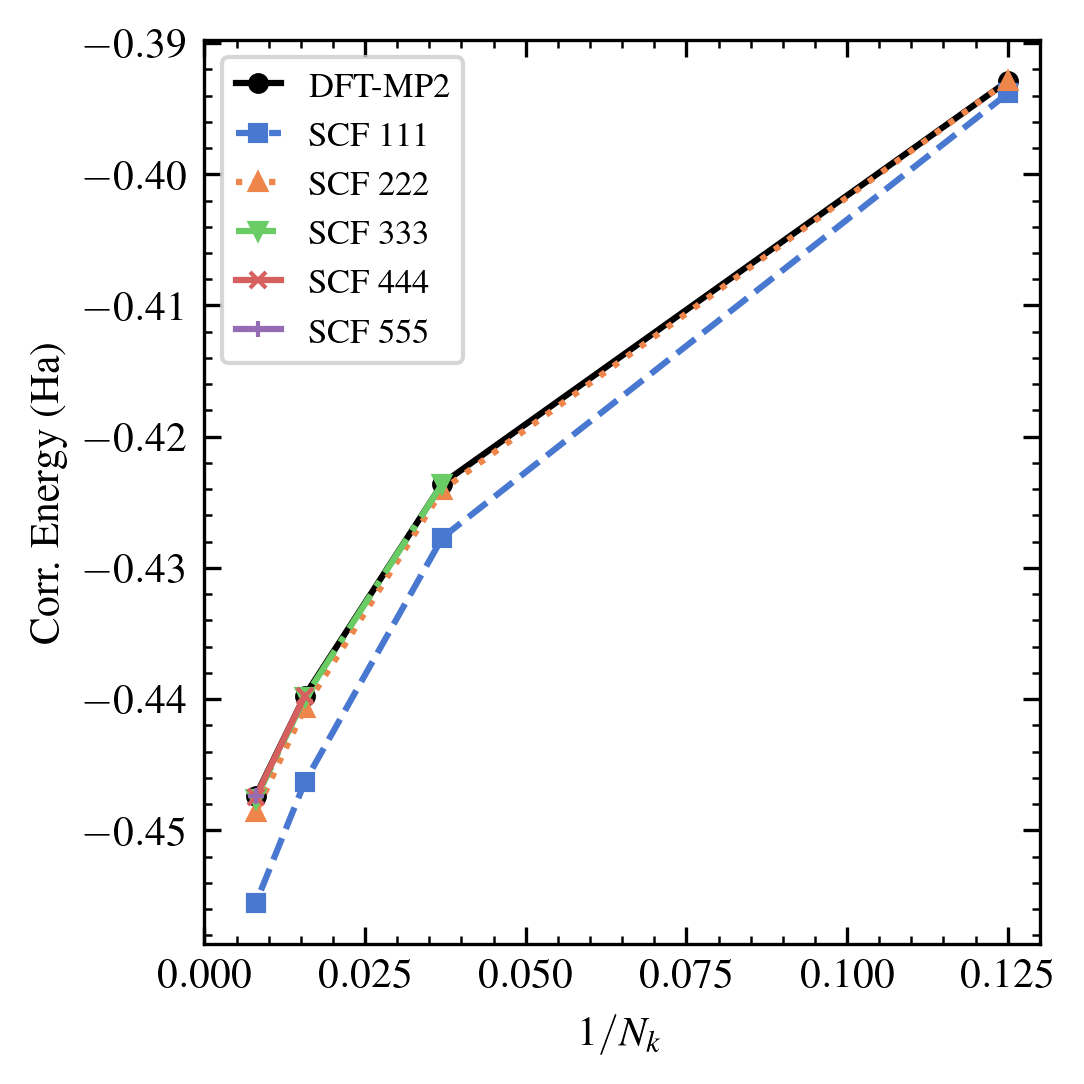
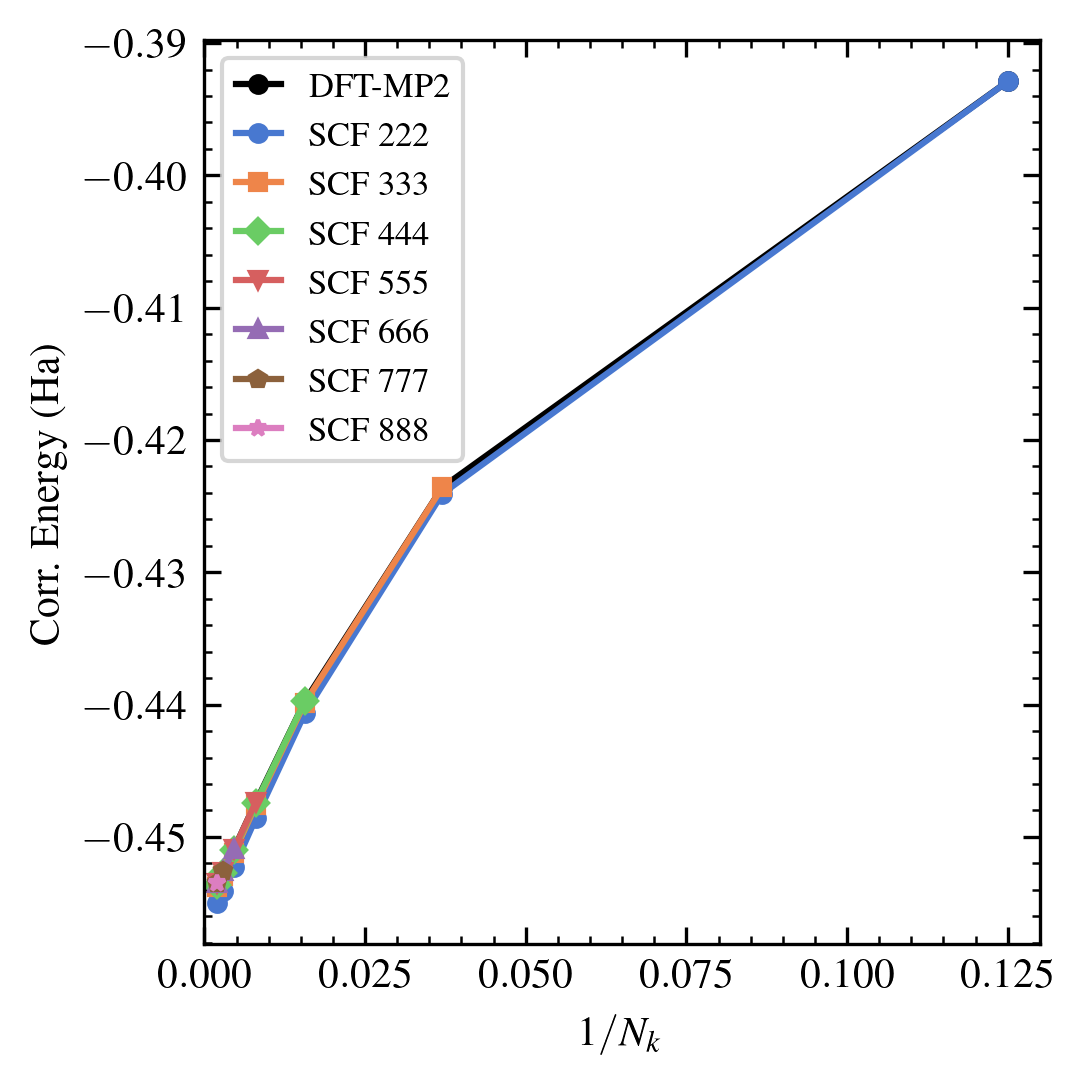
New analysis script

diff --git a/01_get_bands/analysis.py b/01_get_bands/analysis.py
@@ -1,25 +1,23 @@
 #!/usr/bin/env python3
-
 import matplotlib.pyplot as plt
 import numpy as np
 from fileutils import load
 import berkelplot
-import matplotlib
 
 interp_data = np.zeros((5, 5))
-for scfi in range(1, 6):
-    for mpi in range(1, 6):
+for scfi in range(2, 9):
+    for mpi in range(2, 9):
         data = load(f"data/c_ccpvdz_scf_{scfi}_mp2_{mpi}.json")
-        interp_data[scfi-1, mpi-1] = data["ekmp2"]
+        interp_data[scfi - 1, mpi - 1] = data["ekmp2"]
 
 standard_data = interp_data.diagonal()
 
 Nk = np.asarray([2, 3, 4, 5])
-Nk = 1/(Nk**3)
+Nk = 1 / (Nk**3)
 size = berkelplot.fig_size(n_row=2, n_col=1)
 fix, ax = plt.subplots(1, 1, figsize=size)
 ax.plot(Nk, standard_data[1:], label="DFT-MP2", marker="o", color="black")
-ax.plot(Nk, interp_data[0, 1:], label="SCF 111", linestyle='--', marker="s")
+ax.plot(Nk, interp_data[0, 1:], label="SCF 111", linestyle="--", marker="s")
 ax.plot(Nk, interp_data[1, 1:], label="SCF 222", linestyle=":", marker="^")
 ax.plot(Nk[1:], interp_data[2, 2:], label="SCF 333", linestyle="-.", marker="v")
 ax.plot(Nk[2:], interp_data[3, 3:], label="SCF 444", linestyle="-", marker="x")
@@ -32,11 +30,11 @@ plt.savefig("c_ccpvdz_scf_mp2.png")
 
 # Same plot but 1/Nk
 Nk = np.asarray([2, 3, 4, 5])
-Nk = 1/Nk
+Nk = 1 / Nk
 size = berkelplot.fig_size(n_row=2, n_col=1)
 fix, ax = plt.subplots(1, 1, figsize=size)
 ax.plot(Nk, standard_data[1:], label="DFT-MP2", marker="o", color="black")
-ax.plot(Nk, interp_data[0, 1:], label="SCF 111", linestyle='--', marker="s")
+ax.plot(Nk, interp_data[0, 1:], label="SCF 111", linestyle="--", marker="s")
 ax.plot(Nk, interp_data[1, 1:], label="SCF 222", linestyle=":", marker="^")
 ax.plot(Nk[1:], interp_data[2, 2:], label="SCF 333", linestyle="-.", marker="v")
 ax.plot(Nk[2:], interp_data[3, 3:], label="SCF 444", linestyle="-", marker="x")
@@ -49,14 +47,44 @@ plt.savefig("c_ccpvdz_scf_mp2_nk13.png")
 
 # Plot differences to standard
 Nk = np.asarray([2, 3, 4, 5])
-Nk = 1/(Nk**3)
+Nk = 1 / (Nk**3)
 size = berkelplot.fig_size(n_row=2, n_col=1)
 fix, ax = plt.subplots(1, 1, figsize=size)
-ax.plot(Nk, interp_data[0, 1:]-standard_data[1:], label="SCF 111", linestyle='--', marker="s")
-ax.plot(Nk, interp_data[1, 1:]-standard_data[1:], label="SCF 222", linestyle=":", marker="^")
-ax.plot(Nk[1:], interp_data[2, 2:]-standard_data[2:], label="SCF 333", linestyle="-.", marker="v")
-ax.plot(Nk[2:], interp_data[3, 3:]-standard_data[3:], label="SCF 444", linestyle="-", marker="x")
-ax.plot(Nk[3:], interp_data[4, 4:]-standard_data[4:], label="SCF 555", linestyle="-", marker="+")
+ax.plot(
+    Nk,
+    interp_data[0, 1:] - standard_data[1:],
+    label="SCF 111",
+    linestyle="--",
+    marker="s",
+)
+ax.plot(
+    Nk,
+    interp_data[1, 1:] - standard_data[1:],
+    label="SCF 222",
+    linestyle=":",
+    marker="^",
+)
+ax.plot(
+    Nk[1:],
+    interp_data[2, 2:] - standard_data[2:],
+    label="SCF 333",
+    linestyle="-.",
+    marker="v",
+)
+ax.plot(
+    Nk[2:],
+    interp_data[3, 3:] - standard_data[3:],
+    label="SCF 444",
+    linestyle="-",
+    marker="x",
+)
+ax.plot(
+    Nk[3:],
+    interp_data[4, 4:] - standard_data[4:],
+    label="SCF 555",
+    linestyle="-",
+    marker="+",
+)
 ax.set_xlabel(r"$1/N_k$")
 ax.set_ylabel("Interpolation Error (Ha)")
 ax.set_xlim(0, 0.13)
@@ -65,14 +93,44 @@ plt.savefig("c_ccpvdz_scf_mp2_error.png")
 
 # Same plot but 1/Nk
 Nk = np.asarray([2, 3, 4, 5])
-Nk = 1/Nk
+Nk = 1 / Nk
 size = berkelplot.fig_size(n_row=2, n_col=1)
 fix, ax = plt.subplots(1, 1, figsize=size)
-ax.plot(Nk, interp_data[0, 1:]-standard_data[1:], label="SCF 111", linestyle='--', marker="s")
-ax.plot(Nk, interp_data[1, 1:]-standard_data[1:], label="SCF 222", linestyle=":", marker="^")
-ax.plot(Nk[1:], interp_data[2, 2:]-standard_data[2:], label="SCF 333", linestyle="-.", marker="v")
-ax.plot(Nk[2:], interp_data[3, 3:]-standard_data[3:], label="SCF 444", linestyle="-", marker="x")
-ax.plot(Nk[3:], interp_data[4, 4:]-standard_data[4:], label="SCF 555", linestyle="-", marker="+")
+ax.plot(
+    Nk,
+    interp_data[0, 1:] - standard_data[1:],
+    label="SCF 111",
+    linestyle="--",
+    marker="s",
+)
+ax.plot(
+    Nk,
+    interp_data[1, 1:] - standard_data[1:],
+    label="SCF 222",
+    linestyle=":",
+    marker="^",
+)
+ax.plot(
+    Nk[1:],
+    interp_data[2, 2:] - standard_data[2:],
+    label="SCF 333",
+    linestyle="-.",
+    marker="v",
+)
+ax.plot(
+    Nk[2:],
+    interp_data[3, 3:] - standard_data[3:],
+    label="SCF 444",
+    linestyle="-",
+    marker="x",
+)
+ax.plot(
+    Nk[3:],
+    interp_data[4, 4:] - standard_data[4:],
+    label="SCF 555",
+    linestyle="-",
+    marker="+",
+)
 ax.set_xlabel(r"$N_k^{-1/3}$")
 ax.set_ylabel("Interpolation Error (Ha)")
 ax.set_xlim(0, 0.55)
@@ -81,13 +139,37 @@ plt.savefig("c_ccpvdz_scf_mp2_error_nk13.png")
 
 # Plot 444, 333, 222 difference to standard
 Nk = np.asarray([2, 3, 4, 5])
-Nk = 1/(Nk**3)
+Nk = 1 / (Nk**3)
 size = berkelplot.fig_size(n_row=2, n_col=1)
 fix, ax = plt.subplots(1, 1, figsize=size)
-ax.plot(Nk, interp_data[4, 1:]-standard_data[1:], label="SCF 555", linestyle="-", marker="+")
-ax.plot(Nk[1:], interp_data[3, 2:]-standard_data[2:], label="SCF 444", linestyle="-", marker="x")
-ax.plot(Nk[2:], interp_data[2, 3:]-standard_data[3:], label="SCF 333", linestyle="-.", marker="v")
-ax.plot(Nk[3:], interp_data[1, 4:]-standard_data[4:], label="SCF 222", linestyle=":", marker="^")
+ax.plot(
+    Nk,
+    interp_data[4, 1:] - standard_data[1:],
+    label="SCF 555",
+    linestyle="-",
+    marker="+",
+)
+ax.plot(
+    Nk[1:],
+    interp_data[3, 2:] - standard_data[2:],
+    label="SCF 444",
+    linestyle="-",
+    marker="x",
+)
+ax.plot(
+    Nk[2:],
+    interp_data[2, 3:] - standard_data[3:],
+    label="SCF 333",
+    linestyle="-.",
+    marker="v",
+)
+ax.plot(
+    Nk[3:],
+    interp_data[1, 4:] - standard_data[4:],
+    label="SCF 222",
+    linestyle=":",
+    marker="^",
+)
 ax.set_xlabel(r"$1/N_k$")
 ax.set_ylabel("Interpolation Error (Ha)")
 ax.set_xlim(0, 0.13)
@@ -96,13 +178,37 @@ plt.savefig("c_ccpvdz_scf_mp2_444_333_222_error.png")
 
 # Same plot but 1/Nk
 Nk = np.asarray([2, 3, 4, 5])
-Nk = 1/Nk
+Nk = 1 / Nk
 size = berkelplot.fig_size(n_row=2, n_col=1)
 fix, ax = plt.subplots(1, 1, figsize=size)
-ax.plot(Nk, interp_data[4, 1:]-standard_data[1:], label="SCF 555", linestyle="-", marker="+")
-ax.plot(Nk[1:], interp_data[3, 2:]-standard_data[2:], label="SCF 444", linestyle="-", marker="x")
-ax.plot(Nk[2:], interp_data[2, 3:]-standard_data[3:], label="SCF 333", linestyle="-.", marker="v")
-ax.plot(Nk[3:], interp_data[1, 4:]-standard_data[4:], label="SCF 222", linestyle=":", marker="^")
+ax.plot(
+    Nk,
+    interp_data[4, 1:] - standard_data[1:],
+    label="SCF 555",
+    linestyle="-",
+    marker="+",
+)
+ax.plot(
+    Nk[1:],
+    interp_data[3, 2:] - standard_data[2:],
+    label="SCF 444",
+    linestyle="-",
+    marker="x",
+)
+ax.plot(
+    Nk[2:],
+    interp_data[2, 3:] - standard_data[3:],
+    label="SCF 333",
+    linestyle="-.",
+    marker="v",
+)
+ax.plot(
+    Nk[3:],
+    interp_data[1, 4:] - standard_data[4:],
+    label="SCF 222",
+    linestyle=":",
+    marker="^",
+)
 ax.set_xlabel(r"$N_k^{-1/3}$")
 ax.set_ylabel("Interpolation Error (Ha)")
 ax.set_xlim(0, 0.55)

diff --git a/01_get_bands/new_analysis.py b/01_get_bands/new_analysis.py
@@ -1,0 +1,101 @@
+#!/usr/bin/env python3
+from fileutils import load
+import numpy as np
+import berkelplot
+import matplotlib.pyplot as plt
+
+def get_interp_data(material, scf):
+    data = [load(f"data/{material}_ccpvdz_scf_{scf}_mp2_{mpi}.json")["ekmp2"] for mpi in range(2, 9)]
+    return np.asarray(data)
+
+def get_standard_data(material):
+    data = [load(f"data/{material}_ccpvdz_scf_{i}_mp2_{i}.json")["ekmp2"] for i in range(2, 9)]
+    return np.asarray(data)
+
+materials = ["c", "lif"]
+Nk = np.arange(2, 9)
+Nk_inv = 1 / (Nk**3)
+Nk_inv_13 = 1 / Nk
+
+size = berkelplot.fig_size(n_row=2, n_col=1)
+markers = ["o", "s", "D", "v", "^", "p", "*", "h"]  # List of marker styles
+
+for material in materials:
+    fig, ax = plt.subplots(1, 1, figsize=size)
+    ax.plot(Nk_inv, get_standard_data(material), label="DFT-MP2", marker="o", color="black")
+    for i in Nk:
+        ax.plot(Nk_inv[i-2:], get_interp_data(material, i)[i-2:], label=f"SCF {i}{i}{i}", marker=markers[i - 2])
+    ax.set_xlabel(r"$1/N_k$")
+    ax.set_ylabel("Corr. Energy (Ha)")
+    ax.set_xlim(0, 0.13)
+    ax.legend()
+    plt.savefig(f"figures/{material}_ccpvdz_scf_mp2.png")
+
+    fig, ax = plt.subplots(1, 1, figsize=size)
+    ax.plot(Nk_inv_13, get_standard_data(material), label="DFT-MP2", marker="o", color="black")
+    for i in Nk:
+        ax.plot(Nk_inv_13[i-2:], get_interp_data(material, i)[i-2:], label=f"SCF {i}{i}{i}", marker=markers[i - 2])
+    ax.set_xlabel(r"$N_k^{-1/3}$")
+    ax.set_ylabel("Corr. Energy (Ha)")
+    ax.set_xlim(0, 0.55)
+    ax.legend()
+    plt.savefig(f"figures/{material}_ccpvdz_scf_mp2_nk13.png")
+
+    fig, ax = plt.subplots(1, 1, figsize=size)
+    ax.plot(Nk_inv, get_standard_data(material), label="DFT-MP2", marker="o", color="black")
+    for i in Nk:
+        ax.plot(Nk_inv, get_interp_data(material, i), label=f"SCF {i}{i}{i}", marker=markers[i - 2])
+    ax.set_xlabel(r"$1/N_k$")
+    ax.set_ylabel("Corr. Energy (Ha)")
+    ax.set_xlim(0, 0.13)
+    ax.legend()
+    plt.savefig(f"figures/{material}_ccpvdz_scf_mp2_all.png")
+    
+    fig, ax = plt.subplots(1, 1, figsize=size)
+    ax.plot(Nk_inv_13, get_standard_data(material), label="DFT-MP2", marker="o", color="black")
+    for i in Nk:
+        ax.plot(Nk_inv_13, get_interp_data(material, i), label=f"SCF {i}{i}{i}", marker=markers[i - 2])
+    ax.set_xlabel(r"$N_k^{-1/3}$")
+    ax.set_ylabel("Corr. Energy (Ha)")
+    ax.set_xlim(0, 0.55)
+    ax.legend()
+    plt.savefig(f"figures/{material}_ccpvdz_scf_mp2_nk13_all.png")
+
+    # Error plots
+    fig, ax = plt.subplots(1, 1, figsize=size)
+    for i in Nk:
+        ax.plot(Nk_inv[i-2:], get_interp_data(material, i)[i-2:] - get_standard_data(material)[i-2:], label=f"SCF {i}{i}{i}", marker=markers[i - 2])
+    ax.plot((0, 0.13), (0, 0), linestyle="--", color="black")
+    ax.set_xlabel(r"$1/N_k$")
+    ax.set_ylabel("Corr. Energy Error (Ha)")
+    ax.set_xlim(0, 0.13)
+    ax.legend()
+    plt.savefig(f"figures/{material}_ccpvdz_scf_mp2_error.png")
+
+    fig, ax = plt.subplots(1, 1, figsize=size)
+    for i in Nk:
+        ax.plot(Nk_inv_13[i-2:], get_interp_data(material, i)[i-2:] - get_standard_data(material)[i-2:], label=f"SCF {i}{i}{i}", marker=markers[i - 2])
+    ax.plot((0, 0.55), (0, 0), linestyle="--", color="black")
+    ax.set_xlabel(r"$N_k^{-1/3}$")
+    ax.set_ylabel("Corr. Energy Error (Ha)")
+    ax.set_xlim(0, 0.55)
+    ax.legend()
+    plt.savefig(f"figures/{material}_ccpvdz_scf_mp2_nk13_error.png")
+
+    fig, ax = plt.subplots(1, 1, figsize=size)
+    for i in Nk:
+        ax.plot(Nk_inv, get_interp_data(material, i) - get_standard_data(material), label=f"SCF {i}{i}{i}", marker=markers[i - 2])
+    ax.set_xlabel(r"$1/N_k$")
+    ax.set_ylabel("Corr. Energy Error (Ha)")
+    ax.set_xlim(0, 0.13)
+    ax.legend()
+    plt.savefig(f"figures/{material}_ccpvdz_scf_mp2_all_error.png")
+    
+    fig, ax = plt.subplots(1, 1, figsize=size)
+    for i in Nk:
+        ax.plot(Nk_inv_13, get_interp_data(material, i) - get_standard_data(material), label=f"SCF {i}{i}{i}", marker=markers[i - 2])
+    ax.set_xlabel(r"$N_k^{-1/3}$")
+    ax.set_ylabel("Corr. Energy Error (Ha)")
+    ax.set_xlim(0, 0.55)
+    ax.legend()
+    plt.savefig(f"figures/{material}_ccpvdz_scf_mp2_nk13_all_error.png")
